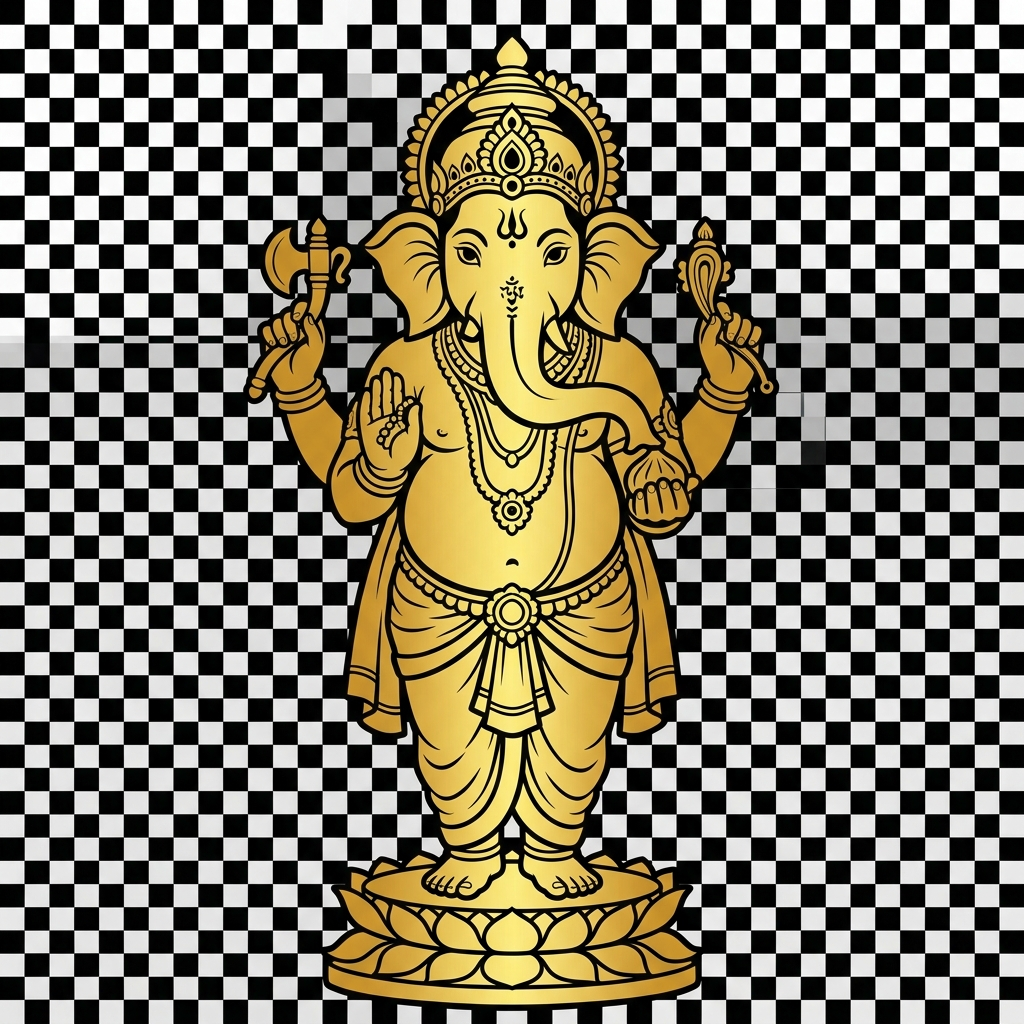
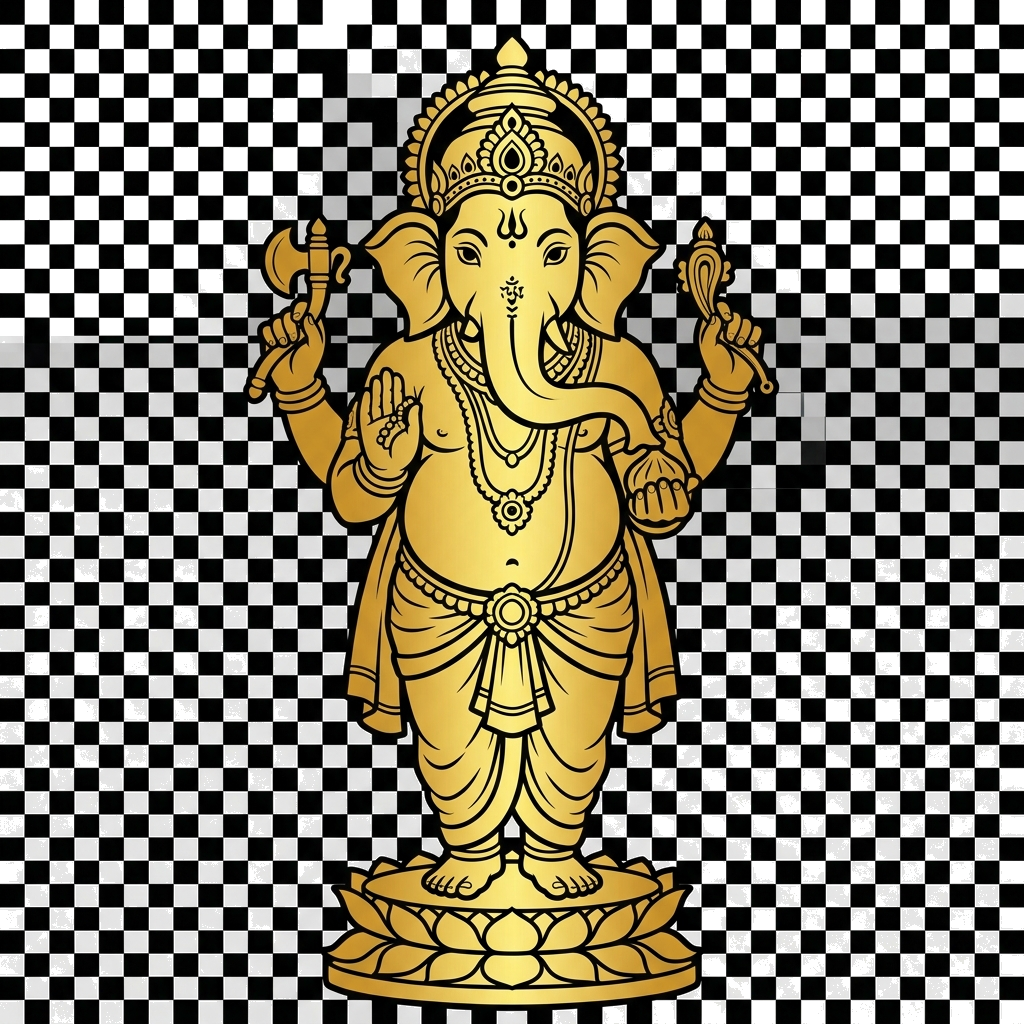
fix: remove white background from deity images using Pillow
- Extracted deity figures as transparent PNGs using brightness+saturation masking
- Feathered edges (15px) for smooth cutout
- Removed CSS blend-mode hacks — clean filter: drop-shadow only
- hanuman_silhouette.png and ganesha_silhouette.png now fully transparent

diff --git a/style.css b/style.css
@@ -132,19 +132,9 @@ body {
   width: 100%;
   height: auto;
   display: block;
-  /*
-    mix-blend-mode: multiply makes white pixels invisible on dark backgrounds:
-    white(255) × dark_bg / 255 = dark_bg → white disappears
-    colored deity pixels remain visible with golden enhancement
-  */
-  mix-blend-mode: multiply;
-  filter:
-    sepia(0.4)
-    saturate(1.8)
-    hue-rotate(-10deg)
-    brightness(0.95)
-    drop-shadow(0 0 18px rgba(255,215,0,0.7));
-  opacity: 1;
+  /* Transparent PNG — just add golden glow */
+  filter: drop-shadow(0 0 18px rgba(255,215,0,0.75));
+  opacity: 0.92;
 }
 .deity-silhouette.right { animation-delay: 1s; }
 @keyframes floatDeity {
